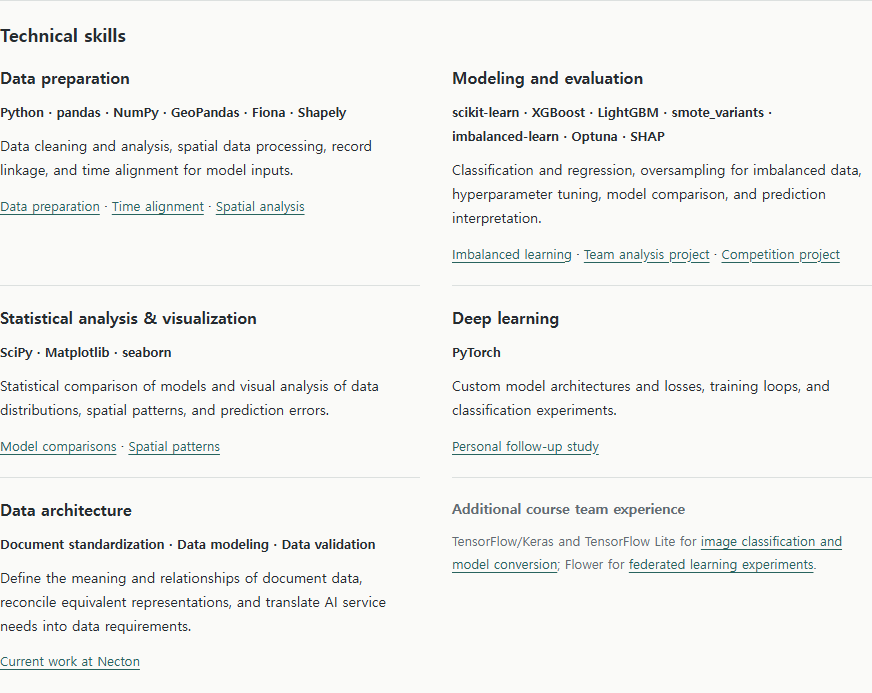
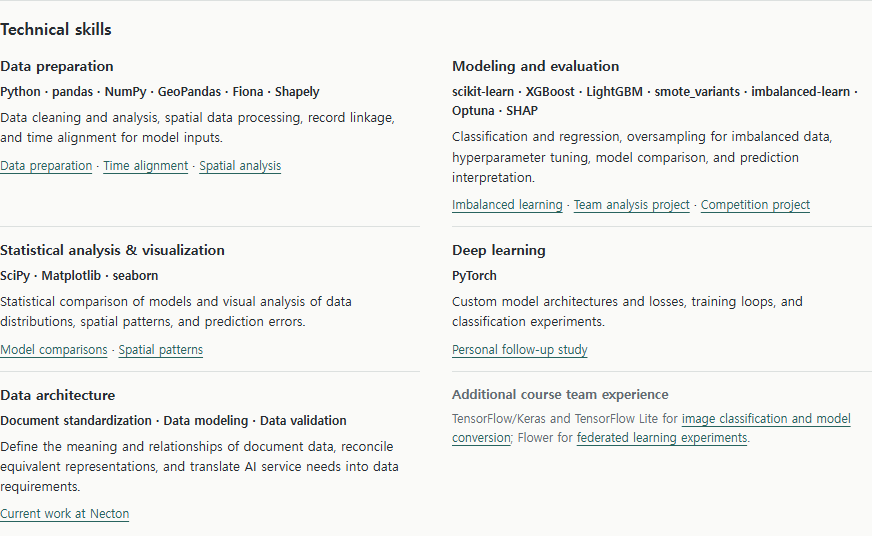
Reduce technical skills typography and spacing

diff --git a/assets/site.css b/assets/site.css
@@ -38,22 +38,21 @@ p { margin:0 0 16px; }
 .profile-degree { font-size:14px; margin:0 0 8px; }
 .profile-records { display:flex; flex-wrap:wrap; gap:4px 16px; list-style:none; padding:0; margin:0 0 18px; font-size:13px; }
 .profile-records li { margin:0; }
-.home-skills { margin-top:28px; padding-top:20px; border-top:1px solid var(--line); }
-.home-skills > h2 { font-size:18px; margin:0 0 14px; }
+.home-skills { margin-top:24px; padding-top:16px; border-top:1px solid var(--line); }
+.home-skills > h2 { font-size:16px; margin:0 0 10px; }
 .skills-grid { display:grid; grid-template-columns:repeat(2,minmax(0,1fr)); column-gap:32px; }
-.skill-area { min-width:0; padding:20px 0; border-top:1px solid var(--line); }
+.skill-area { min-width:0; padding:12px 0; border-top:1px solid var(--line); }
 .skill-area:nth-child(-n+2) { border-top:0; padding-top:4px; }
-.skill-area h3 { font-size:16px; line-height:1.5; margin:0 0 10px; }
-.skill-area .skill-tools { font-size:13px; font-weight:550; line-height:1.85; margin:0 0 10px; }
+.skill-area h3 { font-size:14px; line-height:1.5; margin:0 0 6px; }
+.skill-area .skill-tools { font-size:12px; font-weight:550; line-height:1.6; margin:0 0 6px; }
 .skill-tools span { white-space:nowrap; }
-.skill-description { font-size:14px; line-height:1.7; margin:0 0 12px; }
-.skill-links { font-size:13px; line-height:1.8; margin:0; }
-.skill-area--course h3 { color:var(--muted); font-size:14px; }
-.skills-scope { color:var(--muted); font-size:13px; line-height:1.8; margin:0; }
+.skill-description { font-size:13px; line-height:1.55; margin:0 0 8px; }
+.skill-links { font-size:12px; line-height:1.6; margin:0; }
+.skill-area--course h3 { color:var(--muted); font-size:13px; }
+.skills-scope { color:var(--muted); font-size:12px; line-height:1.6; margin:0; }
 @media (max-width:700px) {
  .skills-grid { grid-template-columns:1fr; }
- .skill-area { padding:16px 0; }
- .skill-area:nth-child(2) { border-top:1px solid var(--line); padding-top:16px; }
+ .skill-area:nth-child(2) { border-top:1px solid var(--line); padding-top:12px; }
 }
 .home-strengths,.home-work { margin-top:28px; padding-top:20px; border-top:1px solid var(--line); }
 .home-strengths>h2,.home-work>h2 { font-size:18px; margin:0 0 14px; }

diff --git a/index.html b/index.html
@@ -8,7 +8,7 @@
    Home | Do Hyeon Lee
   </title>
 <meta content="Do Hyeon Lee, PhD in Data Science: understanding data characteristics through machine learning research, practical data work, and teaching." name="description"/>
-<link href="assets/site.css?v=skills-layout-20261005-1" rel="stylesheet"/>
+<link href="assets/site.css?v=skills-compact-20261005-1" rel="stylesheet"/>
 </head>
 <body>
 <a class="skip-link" href="#main">

diff --git a/docs/review/REVIEW.md b/docs/review/REVIEW.md
@@ -4,6 +4,8 @@
 
 Technical skills now uses two columns with category headings, tool names, application descriptions, and separate supporting links. Five skill areas plus explicitly scoped course-team experience form three rows. Thin separators retain the site's understated style; widths of 700px and below use one column. The introduction/skills width alignment, all technologies and descriptions, and existing links are preserved.
 
+Typography and spacing are now more compact: section title 16px, group titles 14px, body 13px, and secondary tools/links 12px. The section height decreases from 693px to 535px at desktop width and from 1246px to 952px at 390px mobile width. Checks at 1440, 768, 390, and 320px confirm unchanged content, links, and introduction layout, with no overflow or JavaScript errors. See [density measurements](skills-compact-results.json); the screenshots below show the current compact styling.
+
 Chrome checks at 1440, 768, 700, 390, and 320px passed without overflow or JavaScript errors. All 24 desktop/mobile detail-navigation checks and 12 keyboard previews passed. See [results](skills-layout-results.json), [desktop](skills-layout-desktop.png), and [mobile](skills-layout-mobile.png).
 
 ## Latest: home alignment
